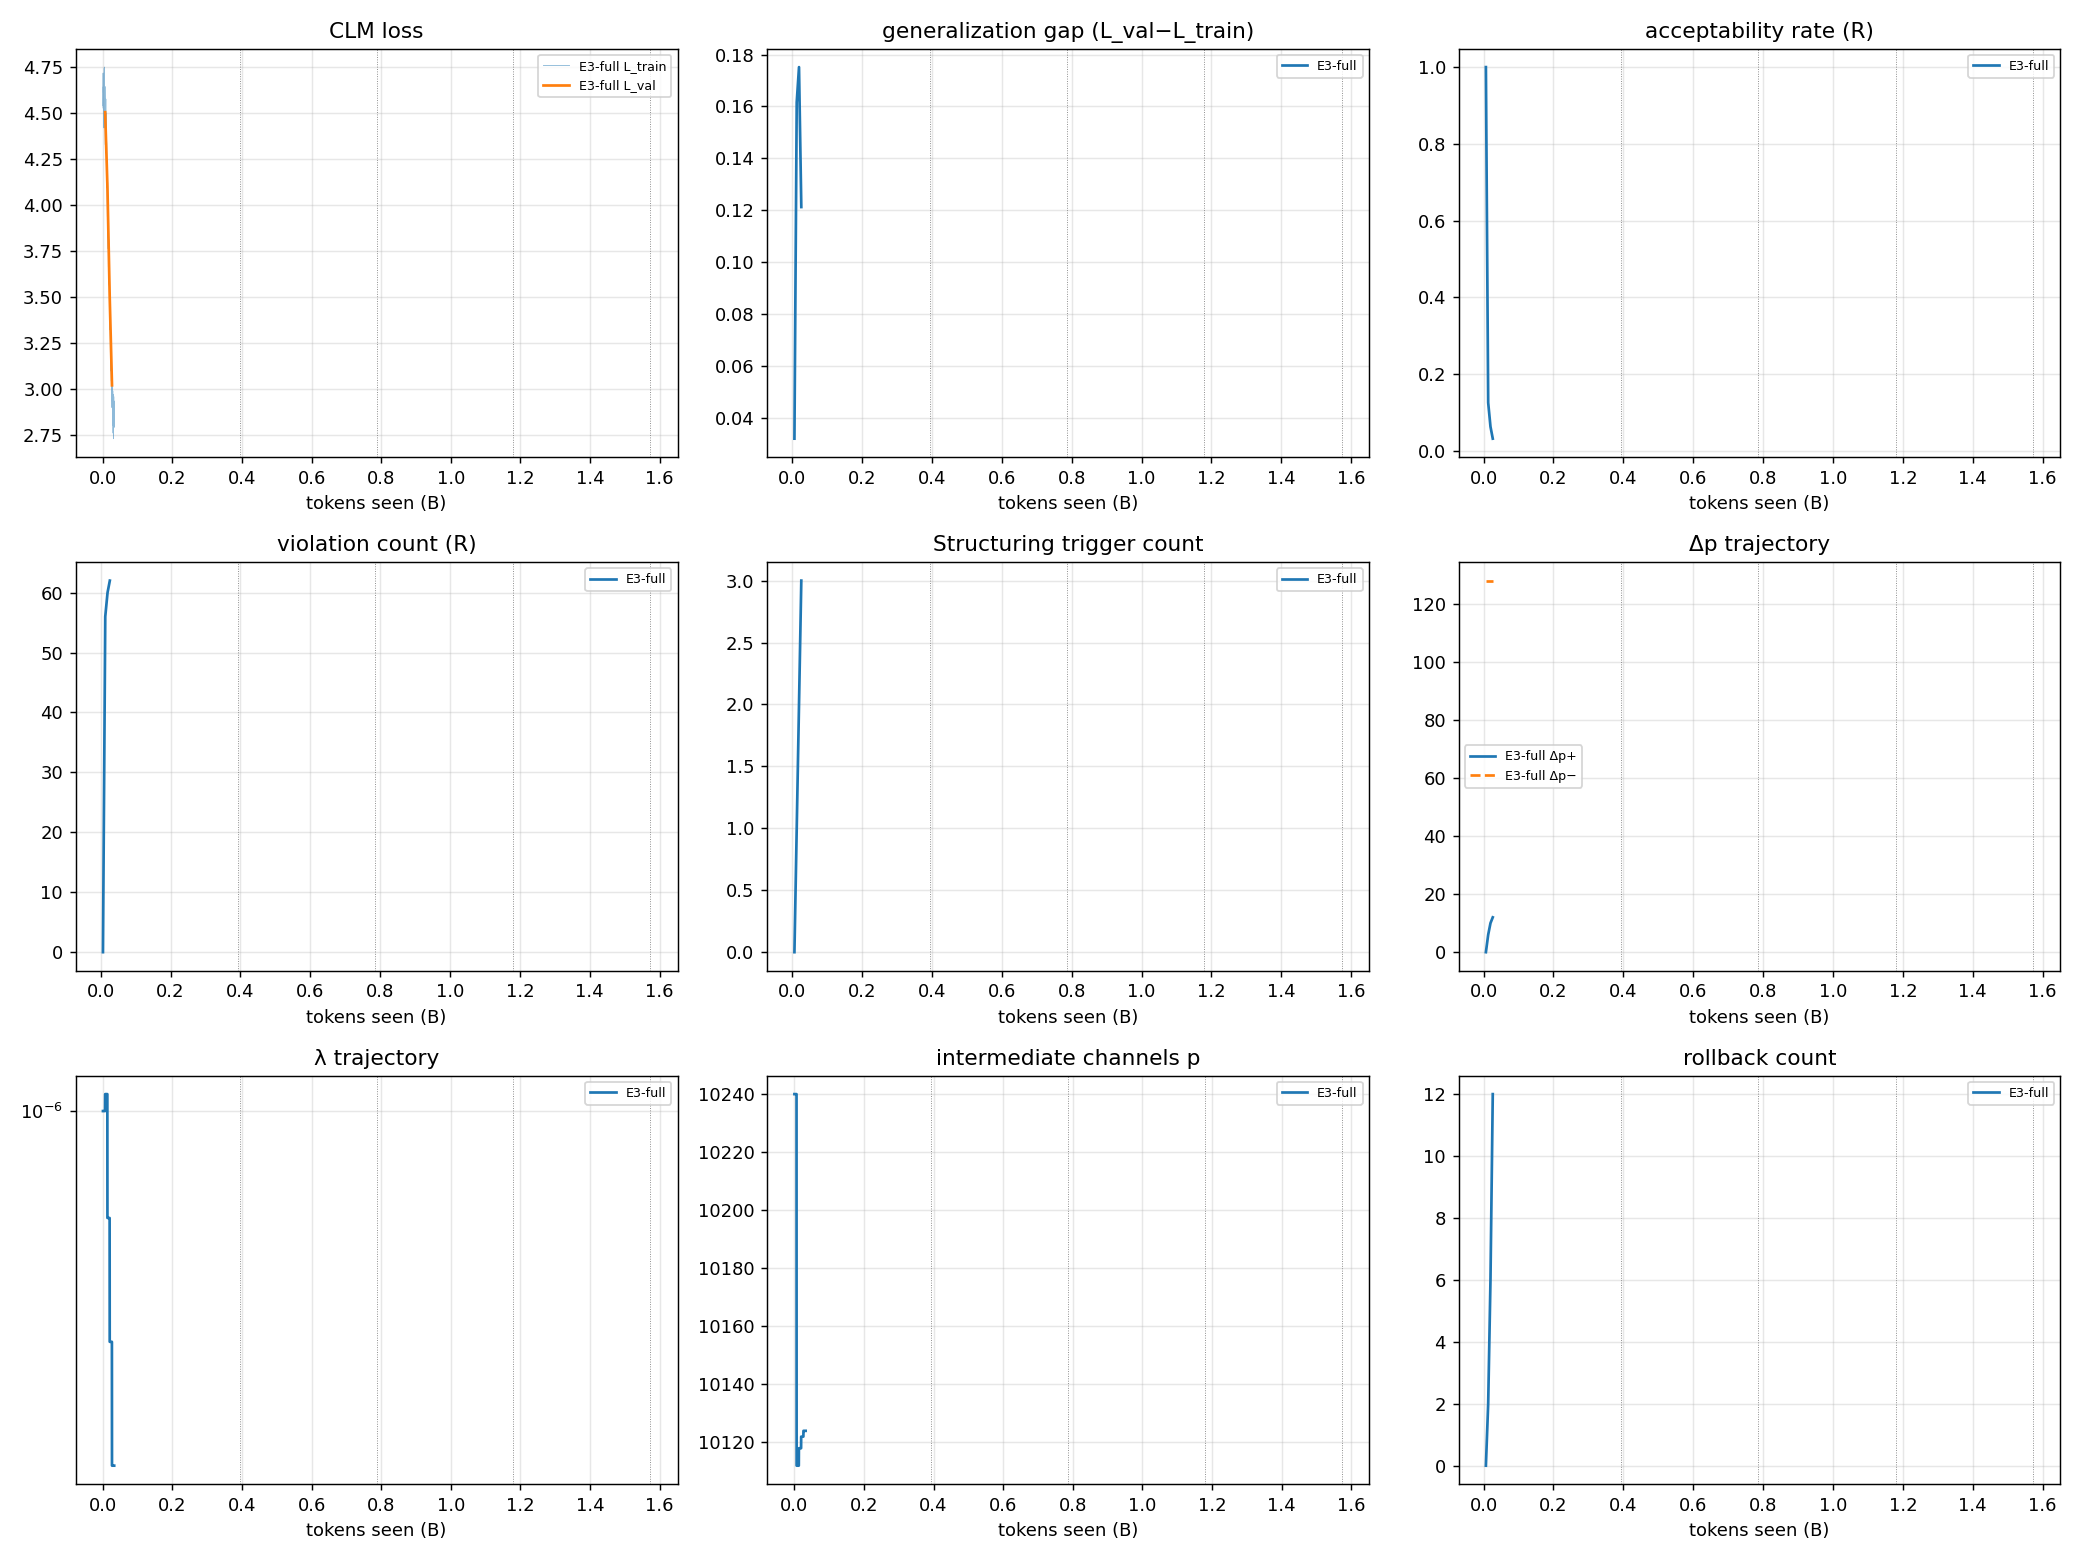
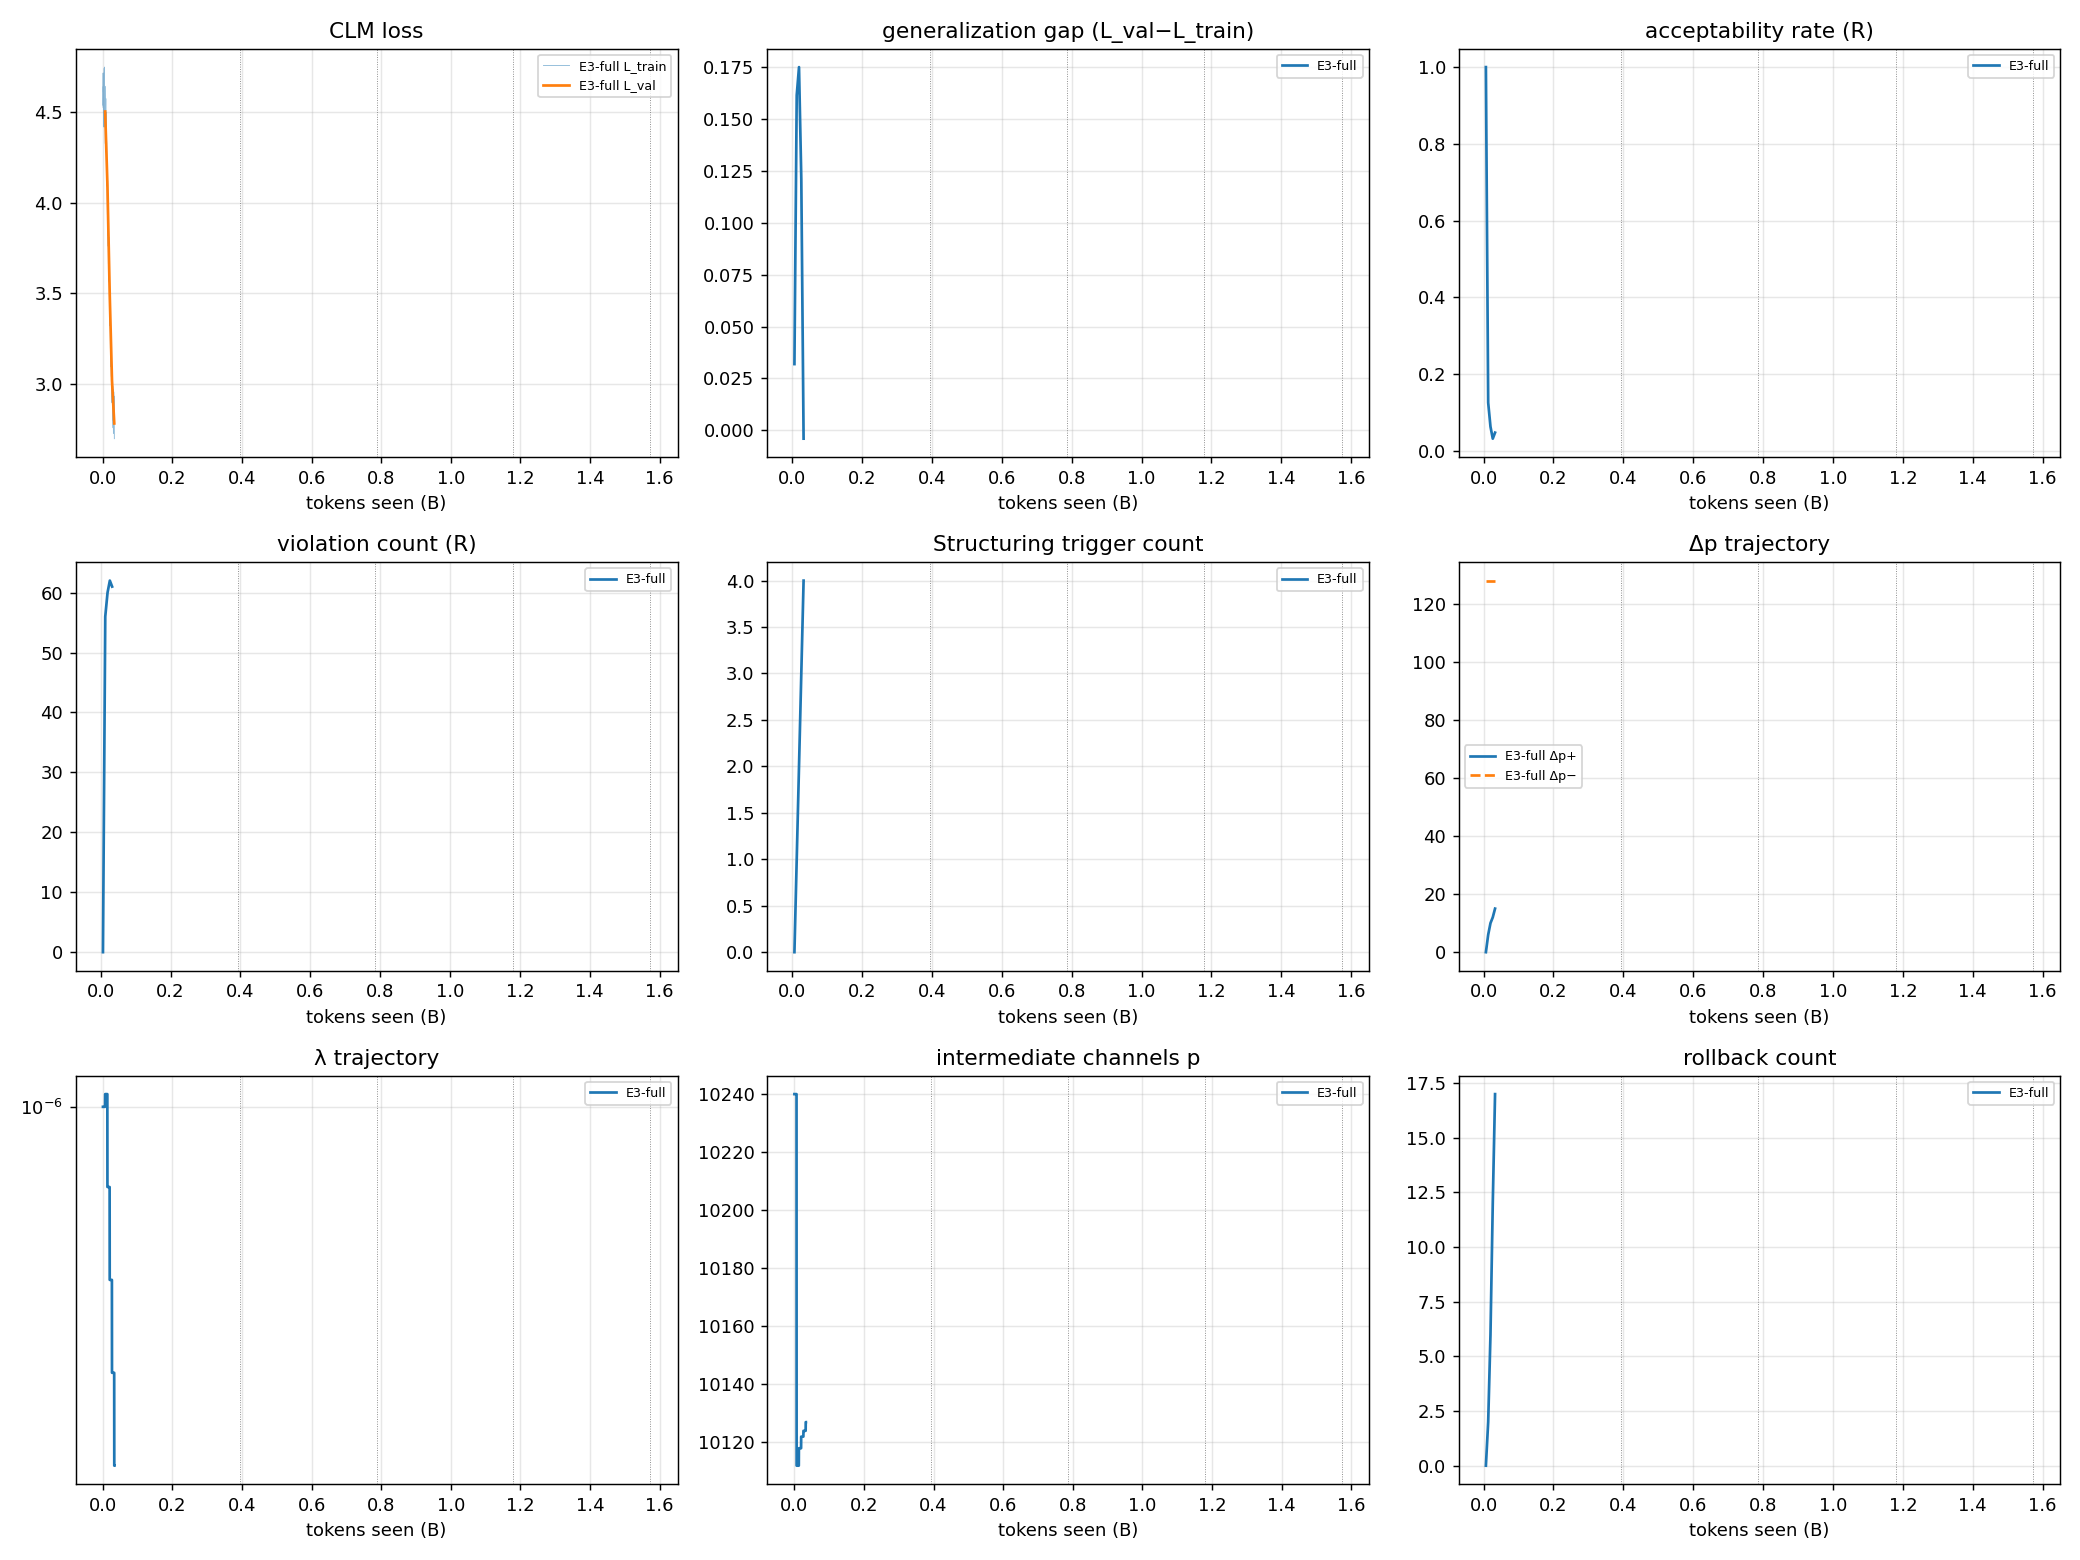
records: 2026-09-29 10:27 E3-full (E3 step 126)

diff --git a/docs/results/feasibility.md b/docs/results/feasibility.md
@@ -1,4 +1,4 @@
 | track | experiment | can run | tokens/s (median) | peak alloc GiB | device used GiB | wall-clock h | stop |
 |---|---|---|---|---|---|---|---|
-| ASUS GX10 | E3-full | yes | 238 | 34.19 | 68.28 | 30.7 | running |
+| ASUS GX10 | E3-full | yes | 238 | 34.35 | 70.77 | 38.3 | running |
 | AI-Stack (AMD MI300/ROCm/DeepSpeed) | — | not run on this machine | — | — | — | — | — |

diff --git a/docs/results/module_table.md b/docs/results/module_table.md
@@ -1,3 +1,3 @@
 | exp | struct triggers | repair attempts | repair success | isolate fail | Δp+ | Δp− | rollback | NT rounds | NT Fail | final p | final λ |
 |---|---|---|---|---|---|---|---|---|---|---|---|
-| E3-full | 3 | 24 | 12 | 0 | 12 | 128 | 12 | 1 | 0 | 10124 | 3.60e-07 |
+| E3-full | 4 | 32 | 15 | 0 | 15 | 128 | 17 | 1 | 0 | 10127 | 2.52e-07 |
